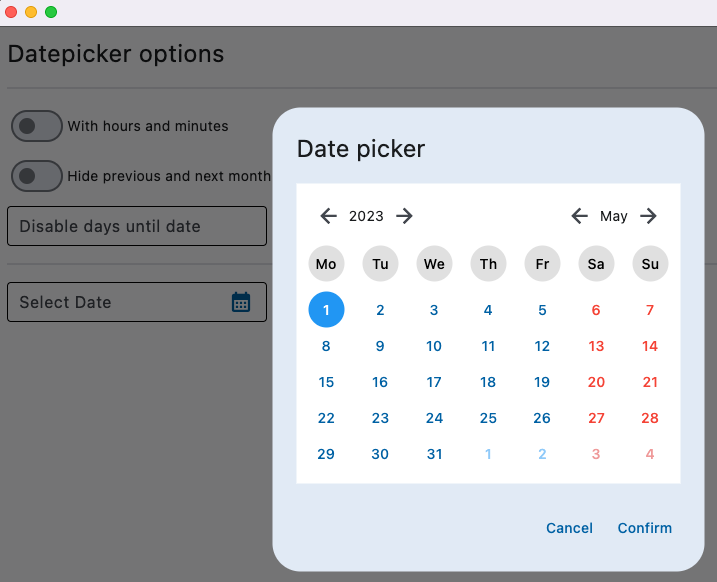
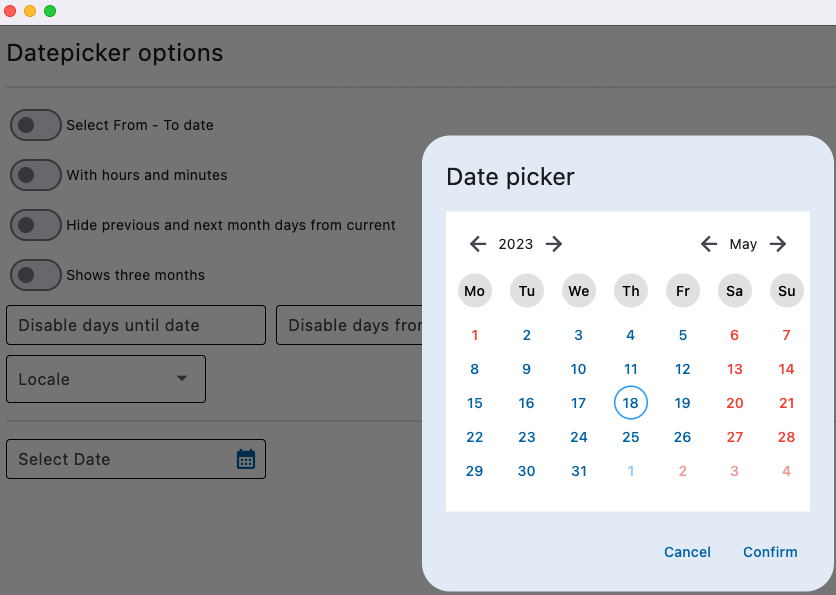
readme and assets

diff --git a/README.md b/README.md
@@ -2,11 +2,30 @@
  
 Naive flet datepicker
 
+features:
+- localization
+- select from - to dates
+- disable to date and from date
+- show 3 months
+- holidays
+- first day of week
+- select datetime
+
+---
+
 ![date picker](assets/datepicker.png)
 
 ![datetime picker](assets/datetimepicker.png)
 
+![datetime picker From-To Date](assets/datepicker_from_to.png)
+
+![datetime picker 3 months](assets/datepicker_3_months.png)
+
+![datetime picker hide prev/next month](assets/datepicker_hide_prev_next_month.png)
+
+![datetime picker locale](assets/datepicker_locale.png)
+
 ---
 
 python version 3.10
-flet 0.6.2
+flet 0.7.1
